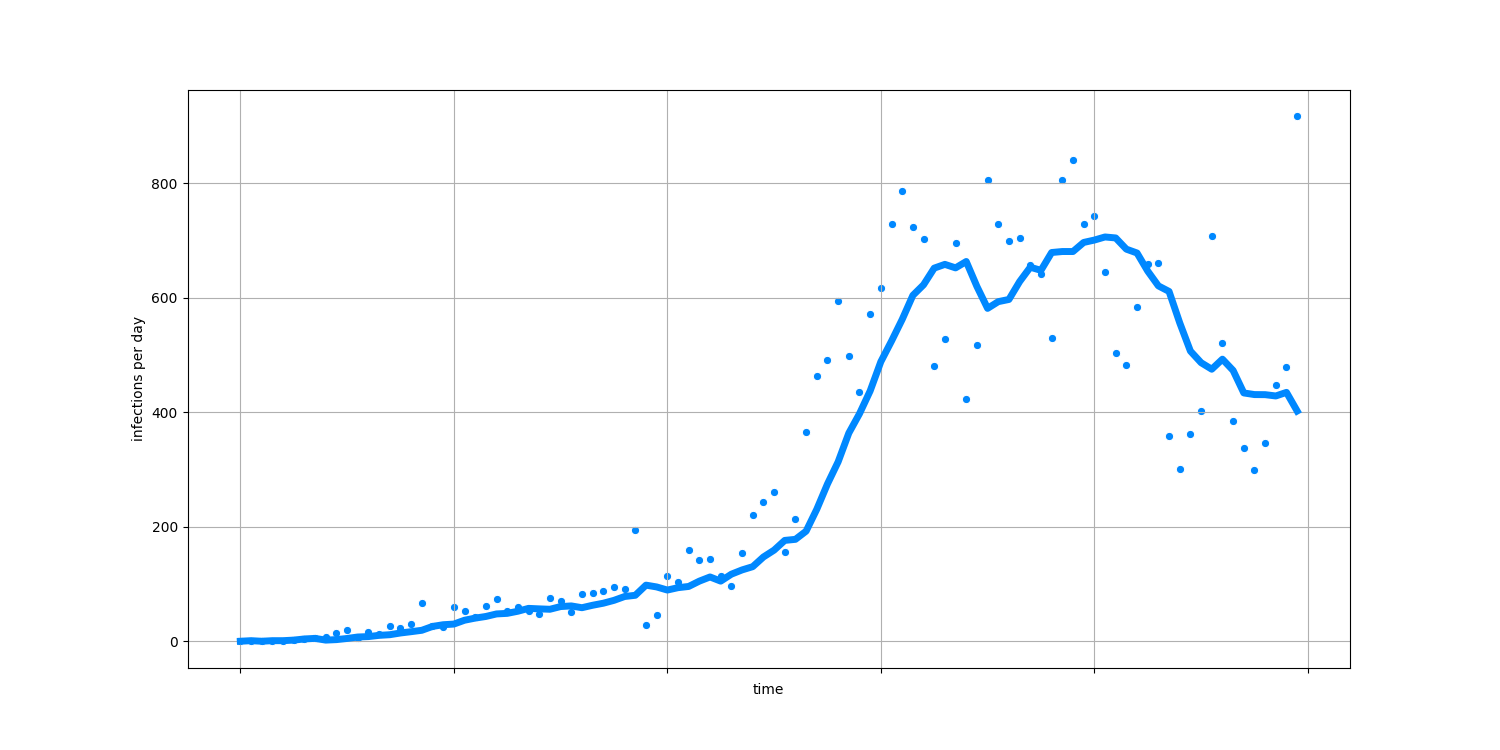
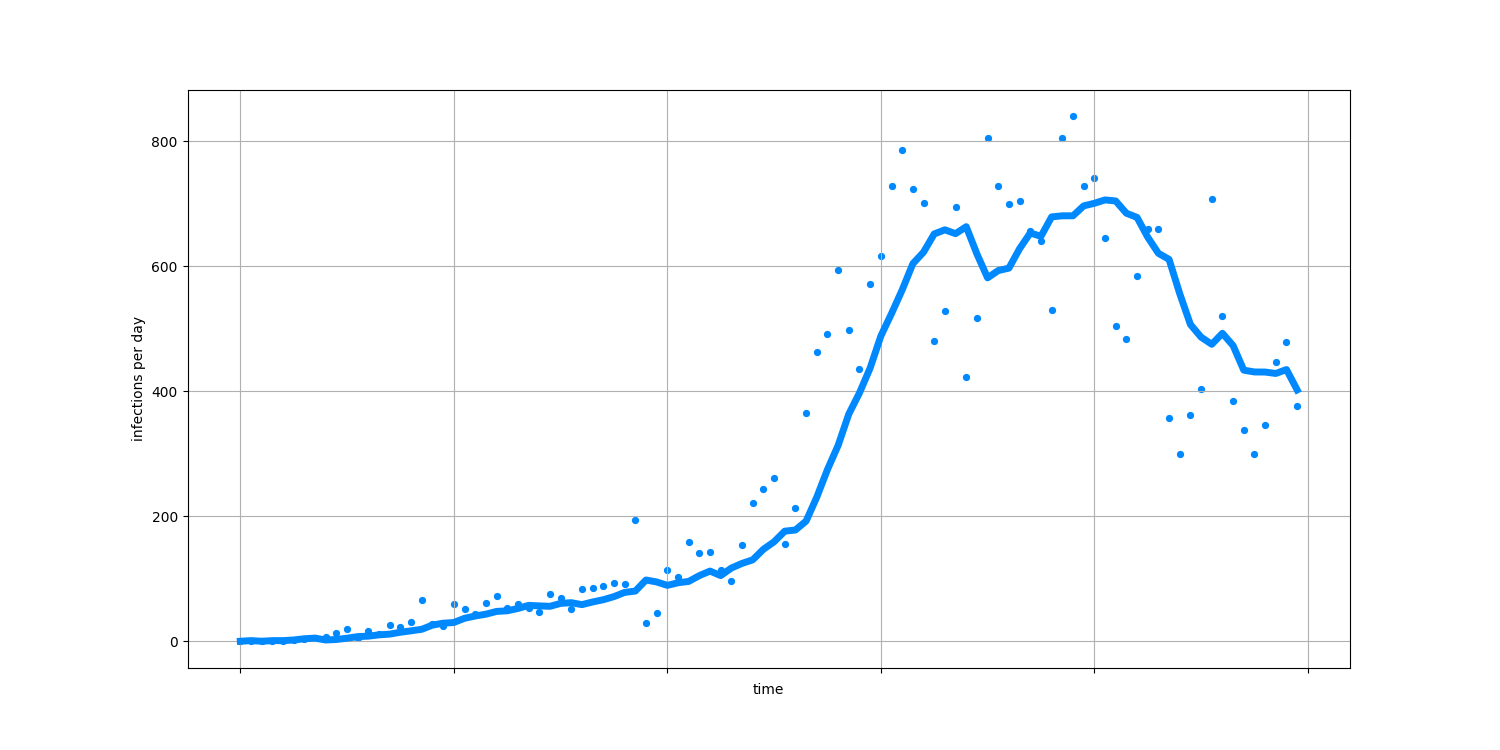
regular update

diff --git a/docs/MN.html b/docs/MN.html
@@ -73,11 +73,11 @@
         <div class="grid-col-9">
           <h1 class="font-body-2xl">
             Minnesota has had about 1,314 COVID-19 deaths and
-            30,712 confirmed cases.
+            30,172 confirmed cases.
             <small>
               That's about <strong>5 out of every
               1,000</strong> people who we know are or have
-              been infected. About <strong>4.28%</strong>
+              been infected. About <strong>4.36%</strong>
               of people who have tested positive have died.
             </small>
           </h1>
@@ -94,10 +94,10 @@
           </p>
 
           <p class="font-body-md">
-            There are about <strong>498</strong> new
+            There are about <strong>390</strong> new
             cases identified every day. At the current rate, the total number of
             confirmed cases will be about <strong>
-            34,000</strong> in 7 days. This chart
+            33,000</strong> in 7 days. This chart
             shows the number of new cases each day since the first case was
             identified. The dots are the total number of new cases for each day
             and the line is the average of the previous seven days.

diff --git a/docs/index.html b/docs/index.html
@@ -73,7 +73,7 @@
         <div class="grid-col-9">
           <h1 class="font-body-2xl">
             The United States has had about 109,249 COVID-19 deaths and
-            2,063,789 confirmed cases.
+            2,063,249 confirmed cases.
             <small>
               That's about <strong>6 out of every
               1,000</strong> people who we know are or have
@@ -94,7 +94,7 @@
           </p>
 
           <p class="font-body-md">
-            There are about <strong>22,012</strong> new
+            There are about <strong>21,904</strong> new
             cases identified every day. At the current rate, the total number of
             confirmed cases will be about <strong>
             2,200,000</strong> in 7 days. This chart
